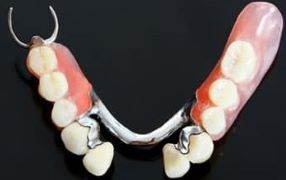
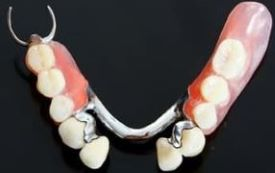
IMG SIZE CHANGED

diff --git a/index.html b/index.html
@@ -94,7 +94,7 @@
 						<div class="card-body">
 							<i class="bi bi-laptop"></i>
 							<h3 class="card-title">Prótesis dento-soportada</h3>
-							<img class="services-img" src="img/protesis-fija.jpg" alt="">
+							<img class="services-img img-fluid" src="img/protesis-fija.jpg" alt="">
 							<br>
 							<br>
 							<p class="lead">Lorem ipsum dolor sit amet consectetur adipisicing elit. Officia voluptate dignissimos totam cumque fuga aperiam nam obcaecati veniam dolorem iusto. Est in totam velit at, recusandae ducimus aperiam inventore nisi.</p>
@@ -107,7 +107,7 @@
 						<div class="card-body">
 							<i class="bi bi-journal"></i>
 							<h3 class="card-title">Prótesis implanto-soportada</h3>
-							<img class="services-img" src="img/protesis-sobre-implantes-lindos.jpg" alt="">
+							<img class="services-img img-fluid" src="img/protesis-sobre-implantes-lindos.jpg" alt="">
 							<br>
 							<br>
 							<p class="lead">Lorem ipsum dolor sit amet consectetur adipisicing elit. Dolorem eaque beatae a sapiente fuga consectetur doloribus possimus assumenda quis. Exercitationem earum accusantium ullam error rem beatae. Facere corporis nihil magnam.</p>
@@ -120,7 +120,7 @@
 						<div class="card-body">
 							<i class="bi bi-intersect"></i>
 							<h3 class="card-title">Prótesis <br> removible</h3>
-							<img class="services-img" src="img/protesis-removible-base-colada.jpg" alt="">
+							<img class="services-img img-fluid" src="img/protesis-removible-base-colada.jpg" alt="">
 							<br>
 							<br>
 							<p class="lead">Lorem ipsum dolor sit am, veniam? Accusamus adipisicing elit. Ut, veniam? Accusamus, suscipit. Dolor aliquid magni officiis, explicabo veritatis ab quia, vel, exercitationem aut expedita molestias quibusdam reprehenderit quam earum fugiat.</p>
@@ -149,7 +149,7 @@
 						<div class="card-body text-dark">
 							<div class="img-area mb-4"><img alt="" class="img-fluid" src="img/3.png"></div>
 							<h3 class="card-title">Expedita nihil autem sint harum</h3>
-							<p class="lead"> Lorem ipsum, dolor sit amet consectetur adipisicing elit. Expedita nihil autem sint harum iure commodi eos libero reiciendis dolor, beatae itaque. Nobis velit enim porro praesentium perspiciatis debitis, veritatis distinctio!</p>
+							<p class="lead"> Lorem ipsum, dolor sit amet dolor sit c adipisicing eli consectetur adipisicing elit. Expedita nihil autem sint harum iure commodi eos libero reiciendis dolor, beatae itaque. Nobis velit enim porro praesentium perspiciatis debitis, veritatis distinctio!</p>
                             <!-- <button class="btn bg-warning text-dark">Learn More</button> -->
 						</div>
 					</div>
@@ -159,7 +159,7 @@
 						<div class="card-body text-dark">
 							<div class="img-area mb-4"><img alt="" class="img-fluid" src="img/4.png"></div>
 							<h3 class="card-title"> Inventore odio enim explicabo repellendus</h3>
-							<p class="lead">Lorem ipsum dolor sit amet consectetur adipisicing elit. Inventore odio enim explicabo repellendus, asperiores molestiae hic tempora veniam repudiandae doloremque consequuntur vero optio, recusandae similique ipsa corrupti porro consequatur vitae.</p>
+							<p class="lead">Lorem ipsum dolor sit c adipisicing elit. Inventore odio enim explicabo repellendus, asperiores molestiae hic tempora veniam repudiandae doloremque consequuntur vero optio, recusandae similique ipsa corrupti porro consequatur vitae.</p>
                             <!-- <button class="btn bg-warning text-dark">learn More</button> -->
 						</div>
 					</div>
@@ -169,7 +169,7 @@
 						<div class="card-body text-dark">
 							<div class="img-area mb-4"><img alt="" class="img-fluid" src="img/8.png"></div>
 							<h3 class="card-title"> Ipsum cupiditate praesentium consequatur</h3>
-							<p class="lead"> Lorem ipsum, dolor sit amet consectetur adipisicing elit. Ipsum cupiditate praesentium consequatur, sit nihil officia consectetur saepe aliquam, nobis, a dolorum perspiciatis ratione. Dolor dicta odio, iure soluta incidunt ipsam.</p>
+							<p class="lead"> Lorem ipsum,nsectetur adipisicing elit. Ipsum cupiditate praesentium consequatur, sit nihil officia consectetur saepe aliquam, nobis, a dolorum perspiciatis ratione. Dolor dicta odio, iure soluta incidunt ipsam.</p>
                             <!-- <button class="btn bg-warning text-dark">Learn More</button> -->
 						</div>
 					</div>
